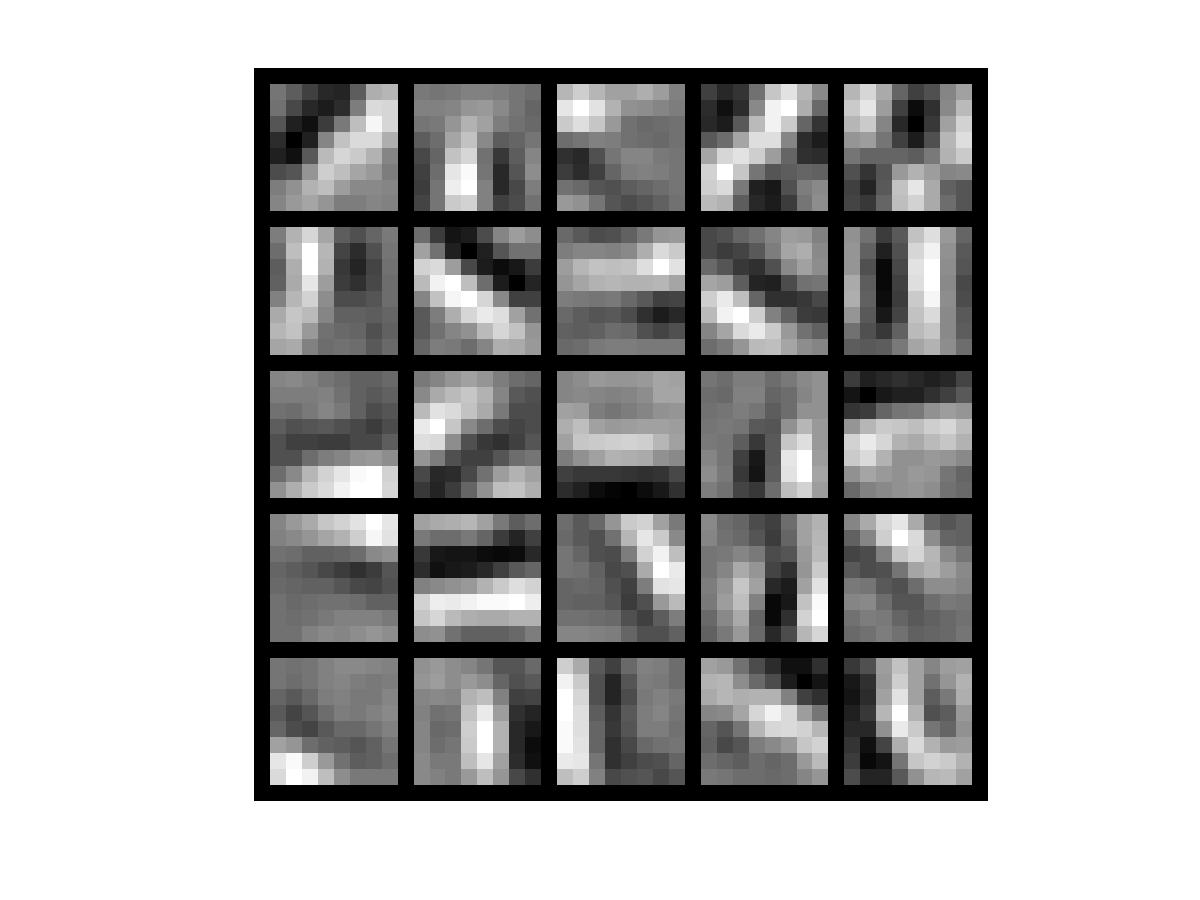
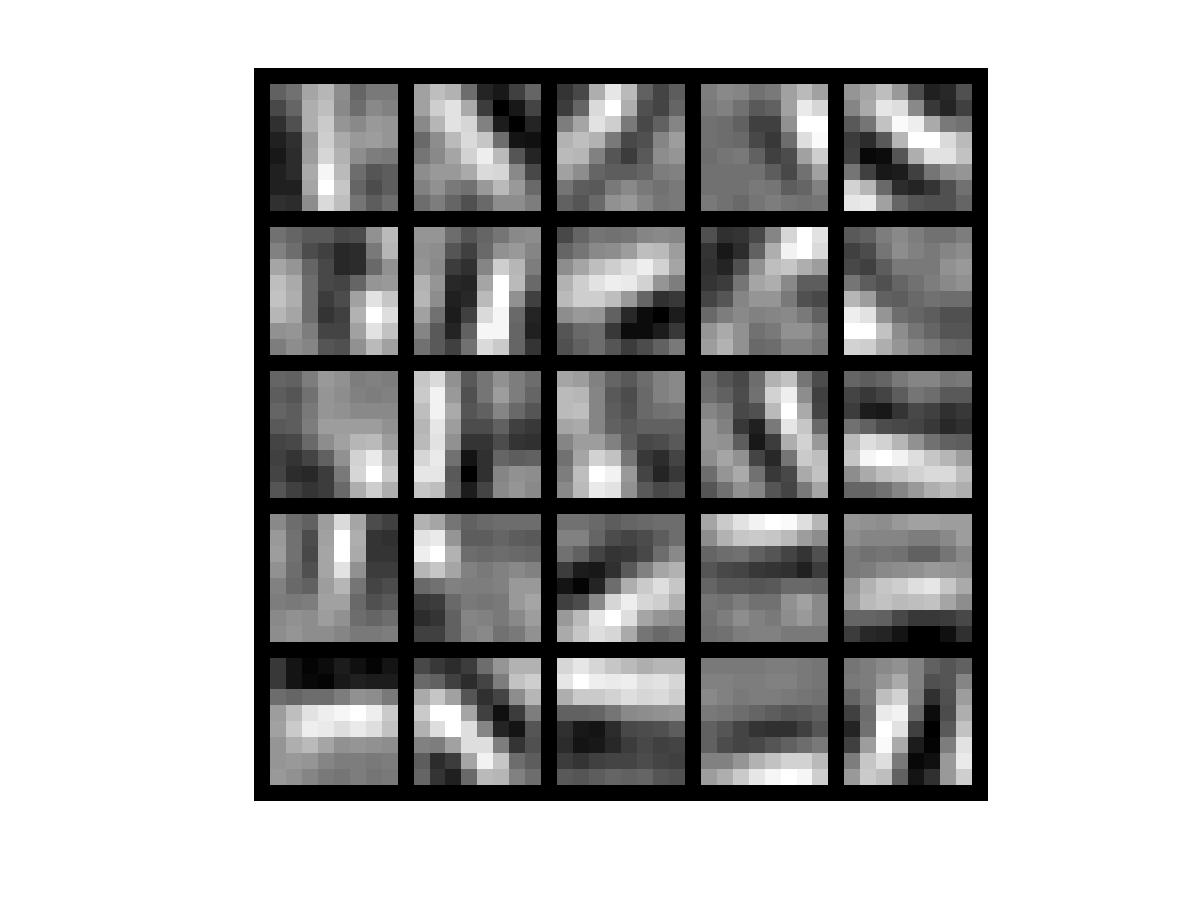
Fix code - sigmoidGradient(z2) not a2

Changed region(s): [[0.2158, 0.0933, 0.8325, 0.8711]]

diff --git a/Exercise 01 - Sparse AutoEncoder/sparseAutoencoderCost_2.m b/Exercise 01 - Sparse AutoEncoder/sparseAutoencoderCost_2.m
@@ -44,114 +44,31 @@ b2grad = zeros(size(b2));
 
 %data: Our 64x10000 matrix containing the training data.  So, data(:,i) is the i-th training example. 
 % for sparse auto-encoder output=input
-y = data';
+m = size(data, 2);
+a1 = data;		% 64 x 10000
+z2 = W1 * a1 + repmat(b1, 1, m);
+a2 =  sigmoid(z2);
+z3 = W2 * a2 + repmat(b2, 1, m);
+a3 = sigmoid(z3);
 
-% calculate a1 : size(data): 64x10000
-% input: 64 input units
-a1 = data';		% 10000x 64
-
-% size(W1) : 25 x 64
-% size(a2) : 10000x64   X 64x25  = 10000x25
-% include intercept term, to be added to each 25 columns 
-a2 =  sigmoid( bsxfun(@plus, b1',(a1*W1')) );
-
-
-%h_theta : predicted output, should be 10000 x64   = 10000x25   X 25x64
-% size(a2) : 10000x25 
-% size(W2): 64x25
-% include intercept term, to be added to each 64 columns 
-h_theta = sigmoid( bsxfun(@plus, b2', (a2 * W2')) );
-
-m = size(data,2);
-J_unreg = (1/m) * sumsqr(h_theta - data');
-
-regularization = (lambda/2) * ( sumsqr(W1) + sumsqr(W2) );
-J = J_unreg + regularization;
-
-cost = J;
-
-% calculate average activation: rho_hat
-a2_sum = zeros(1,25);
-for i=1:m;
-	a1 = data(:,i)';
-	a2 =  sigmoid( bsxfun(@plus, b1',(a1*W1')) );
-	a2_sum = a2_sum + a2;
-end;
-
-
-rho_hat = (1/m) * sum(a2_sum);	
 rho = sparsityParam;
-	
+rho_hat = (1/m) * sum(a2,2);
+J_unreg = (1/2*m) * sumsqr(a3 - data);
+regularization = (lambda/2) * ( sumsqr(W1) + sumsqr(W2) );
+sparse_penalty = kl(rho, rho_hat);
+cost = J_unreg + beta * sparse_penalty + regularization;
+
 % calculate KL-divergence term to be added to delta2
-kl_term = beta * ( -(rho/rho_hat) + (1-rho)/(1-rho_hat))	;
+kl_delta = beta * ( -(rho ./ rho_hat) + (1-rho) ./ (1-rho_hat))	;
+% size(delta3): 64x10000
+delta3 = (a3-data) .* sigmoidGradient(z3);
+% size(delta2) : 25x10000
+delta2 =  ((W2' * delta3) + repmat(kl_delta, 1, m)) .* sigmoidGradient(z2);
 
-% for accumulating deltas in each iteration
-% for W1 and W2
-DELTA_W1 = zeros(size(W1));
-DELTA_W2 = zeros(size(W2));
-% for b1 and b2
-DELTA_b1 = zeros(size(b1));
-DELTA_b2 = zeros(size(b2));
-
-for i=1:m;
-	%fprintf('Iteration %d\n',i);
-	% pick one example from X's 10000 entries
-	% a1:  1x64
-	% data: 64x10000
-	a1 = data(:,i)';
-	
-	% include intercept term, to be added to each of the 25 columns 
-	% size(W1) : 25 x 64
-	% size(b1): 25 x 1
-	% size(a2): 1x25
-	a2 =  sigmoid( bsxfun(@plus, b1',(a1*W1')) );
-	
-	% include intercept term, to be added to each of the 64 columns 
-	% size(W2): 64x25
-	% size(b2): 64 x 1
-	% h_theta = a3   % size: 1x64
-	a3 = sigmoid( bsxfun(@plus, b2', (a2 * W2')) );
-	
-	% calculate delta3 : 1 x 64
-	% a3 = a1 		%sparse auto-encoder
-	delta_3 = a3 - data(:,i)';
-	
-	% calculate deltas
-	% size(delta3 X W2) : 1x64 X 64x25 = 1x25
-	delta3_x_W2 = (delta_3 * W2) ;
-	
-	% also include KL-divergence term
-	delta3_x_W2 = bsxfun(@plus, delta3_x_W2, kl_term);
-	
-	%size(delta_2) = 1x25
-	delta_2 = delta3_x_W2 .* sigmoidGradient( bsxfun(@plus, b1',(a1*W1')) );
-
-	
-	% size(DELTA_W2): size(delta_3') * a2 = 64 x25
-	DELTA_W2 = DELTA_W2 + delta_3' * a2;
-	% size(DELTA_W1): 25 x 64
-	DELTA_W1 = DELTA_W1 + delta_2' * a1;
-	
-	% size(DELTA_b2): 64 x 1
-	DELTA_b2 = DELTA_b2 + delta_3';
-	% size(DELTA_b1): 25 x 1
-	DELTA_b1 = DELTA_b1 + delta_2';
-	
-end;
-
-
-% Actual Grad is DELTA * (1/m)
-W1grad = DELTA_W1 * ( 1/m);
-W2grad = DELTA_W2 * ( 1/m);
-
-b2grad = DELTA_b2 * ( 1/m);
-b1grad = DELTA_b1 * ( 1/m);
-
-size(W1grad);
-size(W2grad);
-size(b1grad);
-size(b2grad);
-
+W1grad = (delta2 * a1') * (1/m) + lambda * W1;
+W2grad = (delta3 * a2') * (1/m) + lambda * W2;
+b2grad = sum(delta3, 2) * (1/m);
+b1grad = sum(delta2, 2) * (1/m);
 
 %-------------------------------------------------------------------
 % After computing the cost and gradient, we will convert the gradients back
@@ -175,4 +92,8 @@ end
 function g = sigmoidGradient(z)
 	g = zeros(size(z));
 	g = sigmoid(z) .* ( 1- sigmoid(z));
+end
+
+function div = kl(r, rh)
+  div = sum(r .* log(r ./ rh) + (1-r) .* log( (1-r) ./ (1-rh)));
 end

diff --git a/Exercise 01 - Sparse AutoEncoder/train.m b/Exercise 01 - Sparse AutoEncoder/train.m
@@ -68,7 +68,7 @@ theta = initializeParameters(hiddenSize, visibleSize);
 %  and/or lambda to zero may be helpful for debugging.)  However, in your 
 %  final submission of the visualized weights, please use parameters we 
 %  gave in Step 0 above.
-[cost, grad] = sparseAutoencoderCost(theta, visibleSize, hiddenSize, lambda, ...
+[cost, grad] = sparseAutoencoderCost_2(theta, visibleSize, hiddenSize, lambda, ...
                                      sparsityParam, beta, patches);
 
 %%======================================================================

diff --git a/Exercise 01 - Sparse AutoEncoder/sparseAutoencoderCost_3.m b/Exercise 01 - Sparse AutoEncoder/sparseAutoencoderCost_3.m
@@ -113,11 +113,9 @@ y = data;
 % Actual Grad is DELTA * (1/m)
 W1grad = (delta2 * a1') * (1/m) + lambda * W1;
 W2grad = (delta3 * a2') * (1/m) + lambda * W2;
-
 b2grad = sum(delta3, 2) * (1/m);
 b1grad = sum(delta2, 2) * (1/m);
-%W2grad = W2grad + lambda * W2;
-%W1grad = W1grad + lambda * W1;
+
 
 
 size(W1grad);
